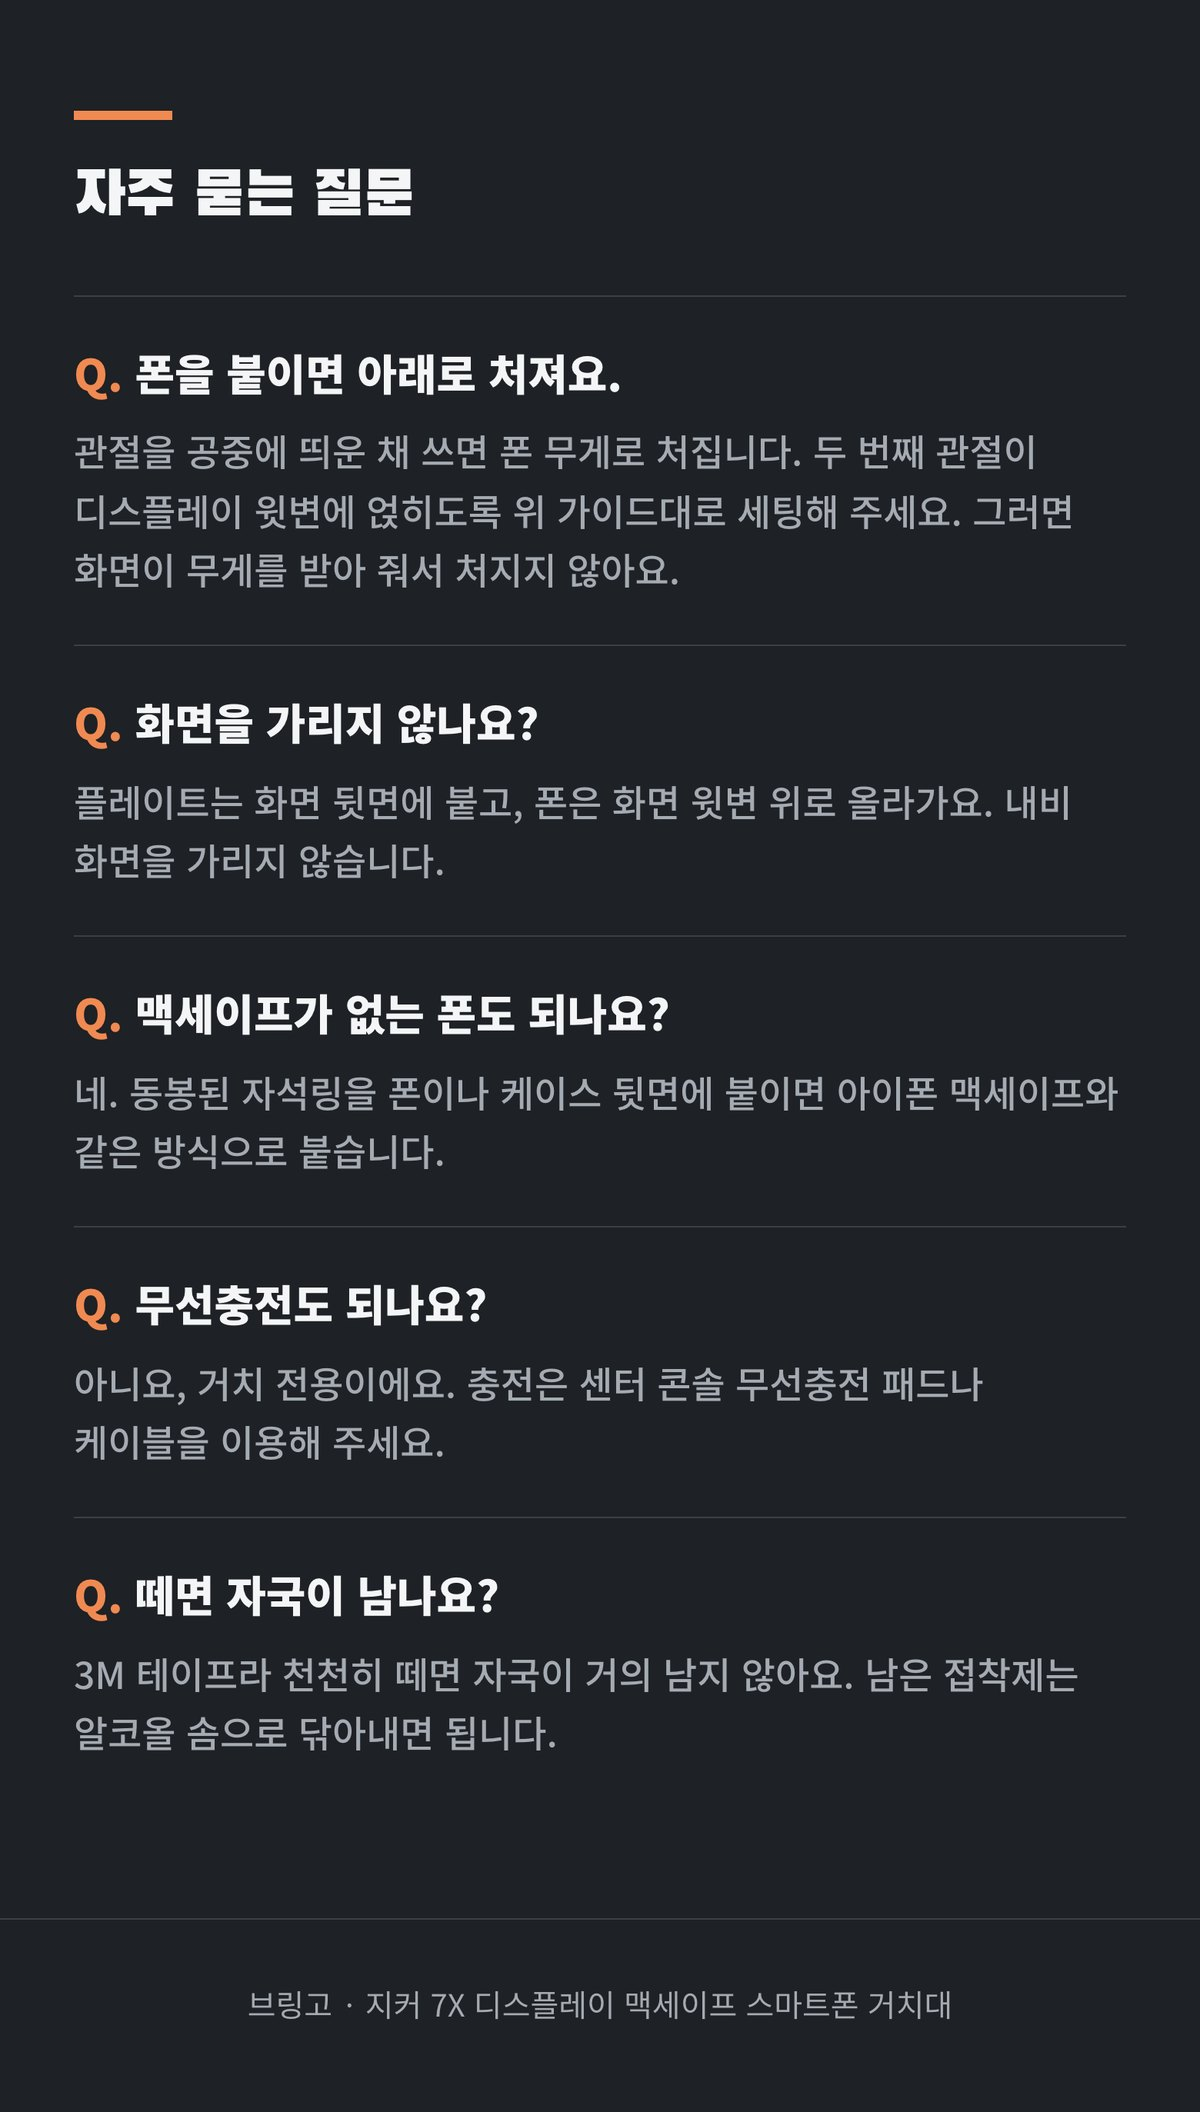
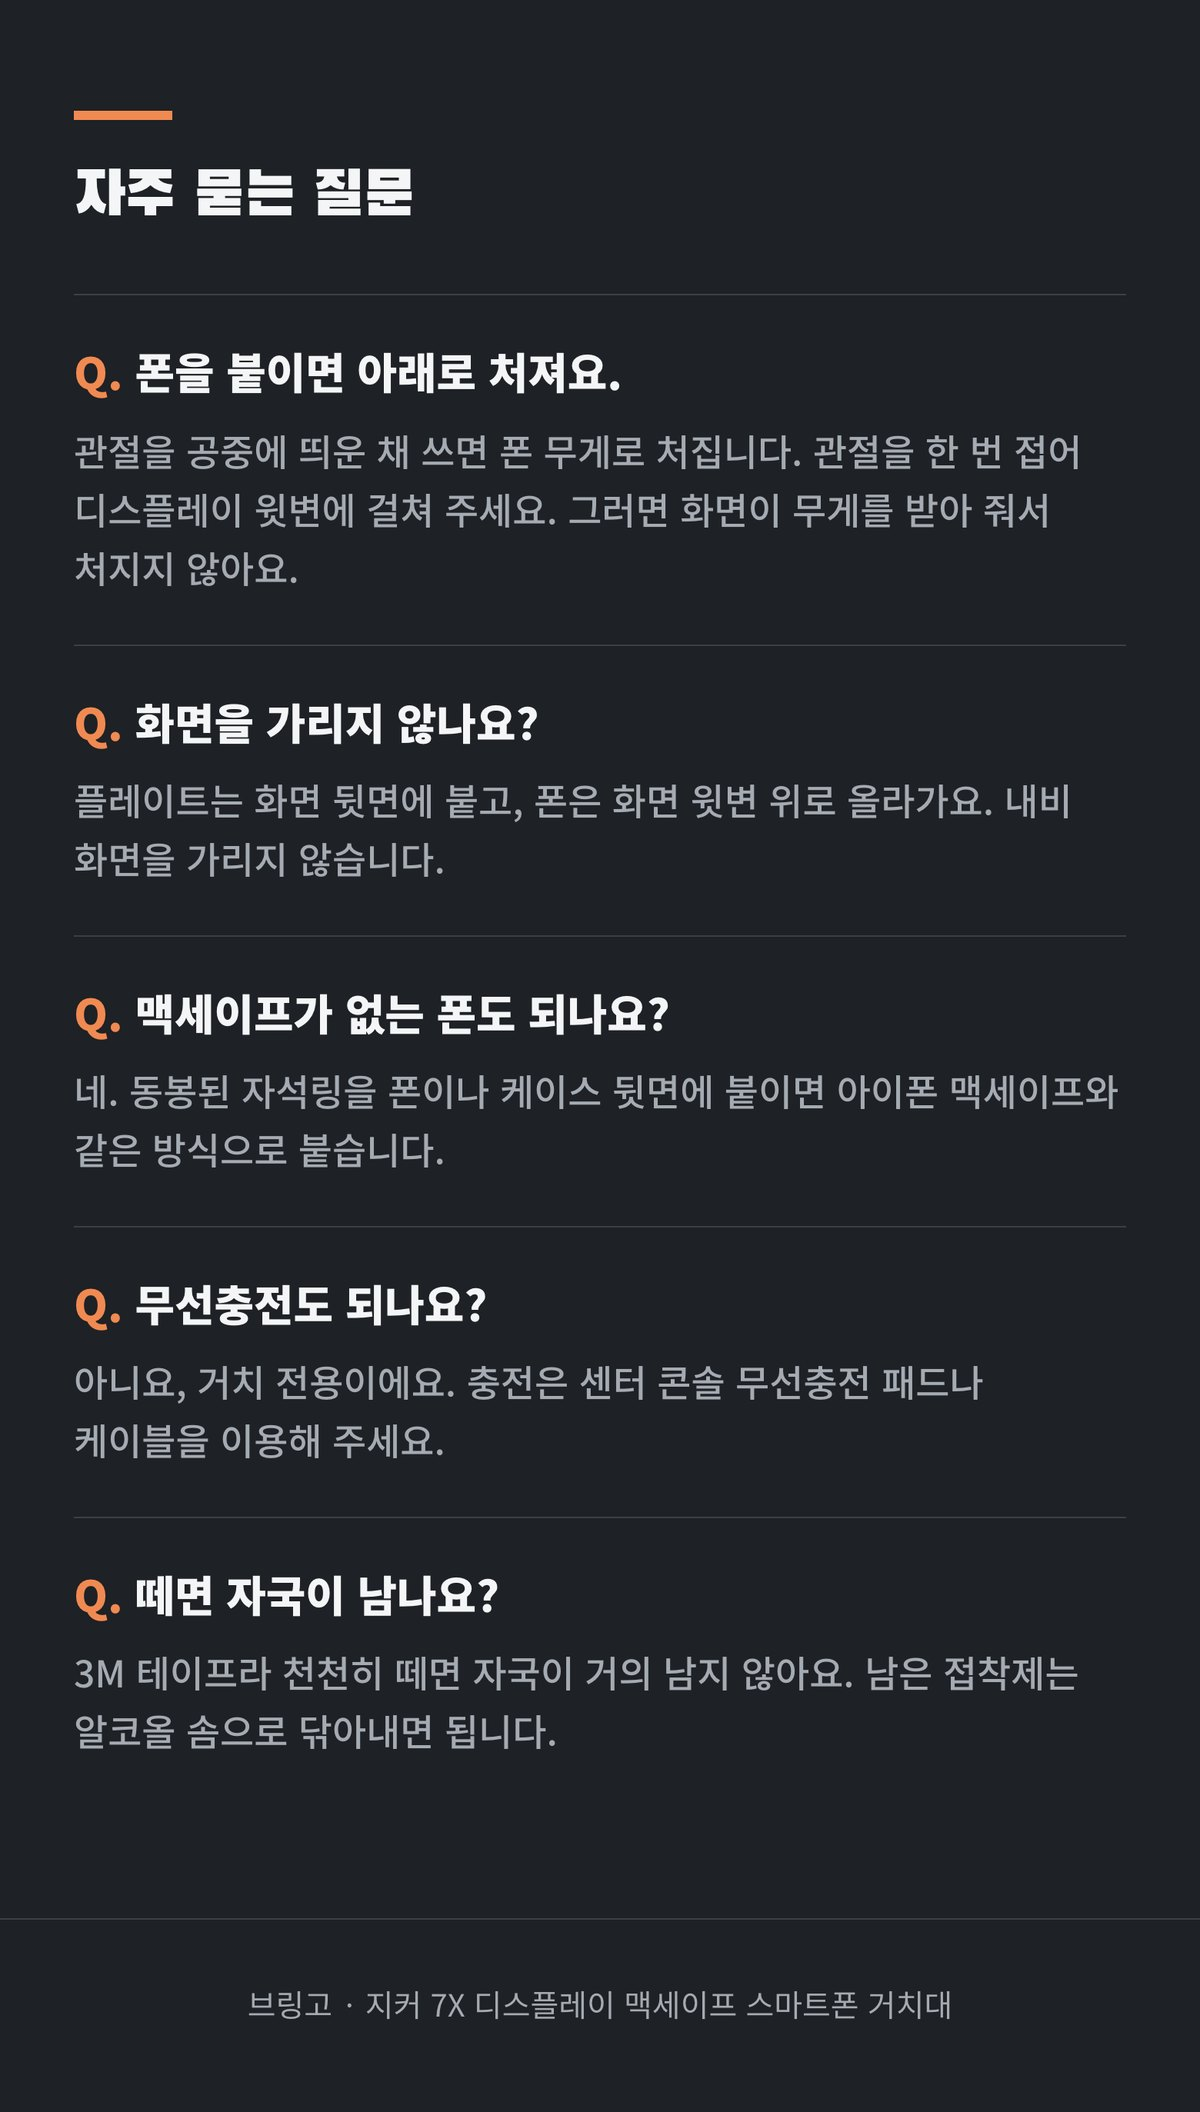
13번 맥세이프 거치대: 새 장착 사진(배경 정리·폰 화면 브링고 로고)으로 대표·사용법·장착법 교체, 관절 1개 구조로 문구 수정

diff --git a/shop/config.js b/shop/config.js
@@ -8,6 +8,6 @@ window.SHEET_URL = 'https://docs.google.com/spreadsheets/d/19crq_-szVqdJRlVK12RK
 window.KAKAO_CHANNEL_URL = 'https://pf.kakao.com/_vtvxiX/chat';
 
 // 상품 사진 버전 (사진을 교체하면 숫자를 올려 주세요)
-window.ASSET_V = '10311900';
+window.ASSET_V = '10312000';
 // 토스페이먼츠 클라이언트 키 (공개용 · test_ck_… 또는 live_ck_…). 비어 있으면 카드결제 숨김. 시크릿 키는 절대 여기 넣지 말 것 → Supabase Edge Function Secrets
 window.TOSS_CLIENT_KEY = '';
